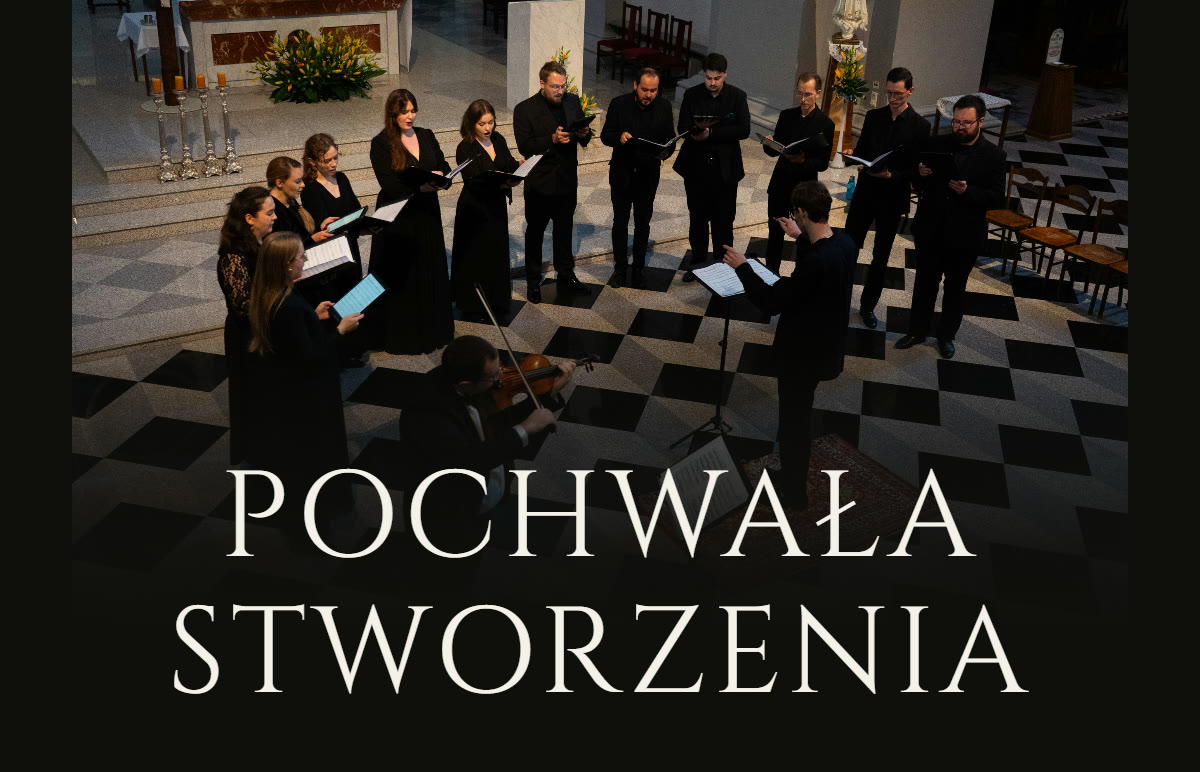
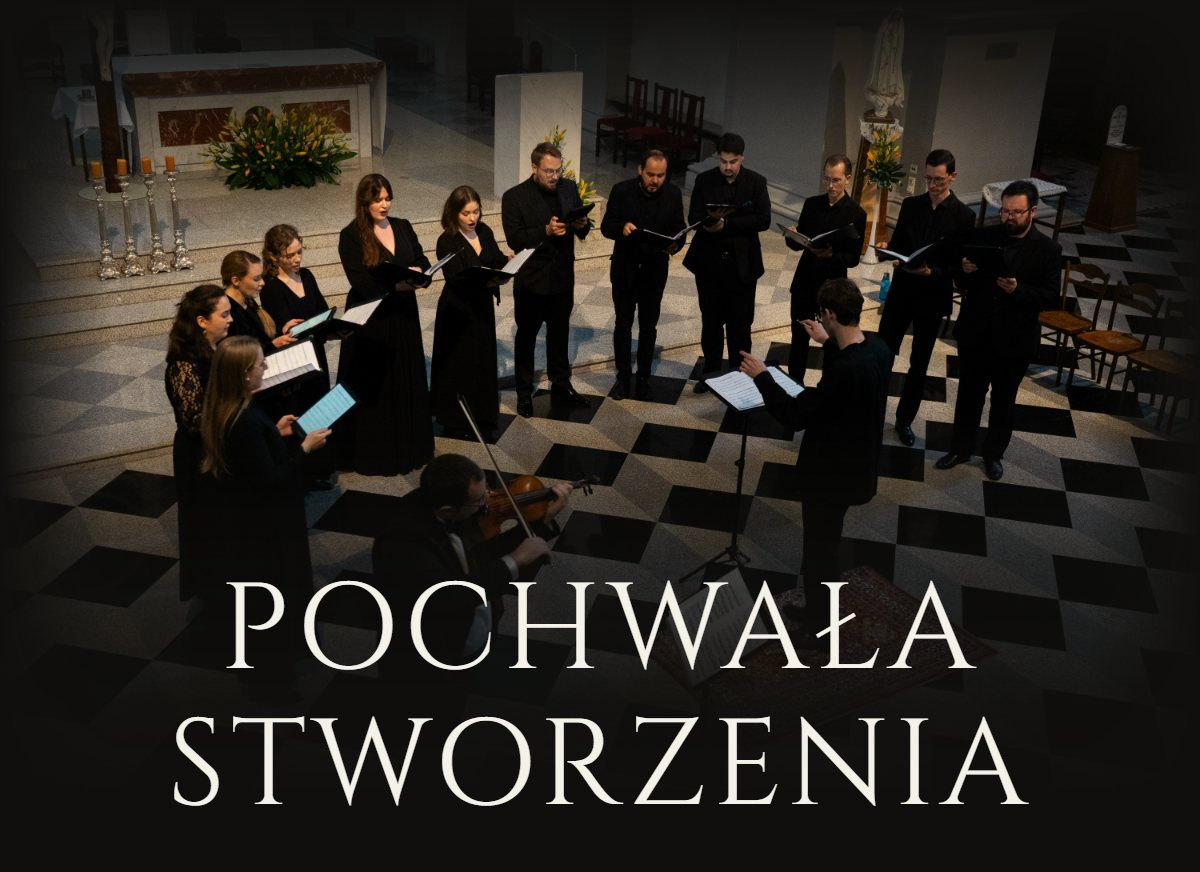
feat(outreach): the Pochwała Stworzenia letter opens on the photographs
The letter starts from what the singers saw in the photographs, thanks the
reader only if they came, and is signed by the singers with a closing line
above the signature. The inscription moves under the title, the dated facts
line goes, and the link carries a ref source instead of UTM parameters.

diff --git a/backend/templates/emails/letter_pochwala_stworzenia.html b/backend/templates/emails/letter_pochwala_stworzenia.html
@@ -4,11 +4,39 @@
 <meta charset="utf-8">
 <meta name="viewport" content="width=device-width, initial-scale=1">
 <meta name="x-apple-disable-message-reformatting">
-{# The letter is dark by design, so it declares itself dark: Apple Mail then leaves it as drawn instead of inverting it. #}
 <meta name="color-scheme" content="dark">
 <meta name="supported-color-schemes" content="dark">
 <title>{{ copy.subject }}</title>
-{# The site's own faces, from the site's own domain. Apple Mail renders them; Gmail and Outlook fall back to Georgia, which the sizes below are chosen to survive. A block of its own, because a client that rejects @font-face may drop the whole <style> it sits in. #}
+<!--{% comment %}
+  How this file is kept:
+  - Every note lives in this one block. A Django tag left as bare text between table rows shows
+    up above the table in a raw preview and fails HTML validation, so the only tags in the body
+    are the loop's, wrapped in HTML comments. Django leaves an empty comment behind each.
+  - Dark by design, and declared dark, so Apple Mail leaves it as drawn instead of inverting it.
+  - The site's own faces come from the site's own domain, in a style block of their own: a
+    client that rejects @font-face may drop the whole block it sits in. Only Apple Mail renders
+    them. Gmail and the Polish webmails go down each stack, so the stack is the typography most
+    readers get: Palatino (Windows, macOS, iOS) before Georgia, because it is Cormorant's kin and
+    its figures are lining, where Georgia's are old-style whatever font-variant-numeric asks.
+    Android has neither and takes its own serif.
+  - One gold, the sun's: #d4a35c for the rubric, the rules, the motto and the button's frame,
+    #f3d08f where gold must read as light. Three steps of type: reading 19/30, small italic
+    15/22, small capitals 11. Spacing from 8 / 16 / 24 / 40 / 64.
+  - The sun stands on its own horizon. Its rays keep one shape in every frame and only their
+    light moves, so it glints instead of crawling; a client that does not animate shows the
+    first frame, which is whole. It is decoration, so it carries no link and no alt.
+  - The evening's photograph rises out of the dark on every edge, with the title cut into it.
+    Under it the concert's inscription stands as the title's motto, the Canticle's first line in
+    Umbrian and in the reader's language. On a phone it breaks at the comma: the second half is
+    bound with no-break spaces, as each gloss in letters.py is.
+  - The two named musicians are a diptych of square frames printed in the letter's own ink, a
+    duotone from the page's ground to its reading colour, so two exposures share one key. Names
+    and roles are rows of their own, so a name that wraps on a phone still leaves both roles on
+    one line.
+  - The button is framed rather than filled; the table is what Outlook draws the border on.
+  - The images carry ?v=2 so an image proxy that fetched an earlier drawing for a test letter
+    serves this one.
+{% endcomment %}-->
 <style>
 @font-face { font-family: "Cormorant Garamond"; font-style: normal; font-weight: 300 700; src: url("{{ site_url }}/fonts/CormorantGaramond-Variable.latin.woff2") format("woff2"); unicode-range: U+0000-00FF, U+2018-201E, U+2026; }
 @font-face { font-family: "Cormorant Garamond"; font-style: normal; font-weight: 300 700; src: url("{{ site_url }}/fonts/CormorantGaramond-Variable.latin-ext.woff2") format("woff2"); unicode-range: U+0100-024F; }
@@ -18,13 +46,12 @@
 @font-face { font-family: "Cinzel"; font-style: normal; font-weight: 400 900; src: url("{{ site_url }}/fonts/Cinzel-Variable.latin-ext.woff2") format("woff2"); unicode-range: U+0100-024F; }
 </style>
 <style>
-:root { color-scheme: dark; supported-color-schemes: dark; }
+:root { color-scheme: dark; }
 body { margin: 0; padding: 0; background: #100f0d; }
-a { color: #c9873f; }
+a { color: #d4a35c; }
 @media (max-width: 620px) {
   .measure { padding-left: 26px !important; padding-right: 26px !important; }
   .inset { padding-left: 18px !important; padding-right: 18px !important; }
-  .lede { font-size: 19px !important; line-height: 29px !important; }
 }
 </style>
 </head>
@@ -36,69 +63,61 @@ a { color: #c9873f; }
 <!--[if mso]><table role="presentation" width="600" cellpadding="0" cellspacing="0" border="0"><tr><td><![endif]-->
 <table role="presentation" width="600" cellpadding="0" cellspacing="0" border="0" bgcolor="#100f0d" style="width:100%; max-width:600px; background:#100f0d;">
 
-  {# ── The rubric, then the sun of the Canticle rising behind the photograph ── #}
-  <tr><td align="center" style="padding:34px 24px 2px; font-family:'Cinzel', Georgia, serif; font-size:11px; line-height:16px; letter-spacing:4px; text-transform:uppercase; color:#c9873f;">{{ copy.eyebrow }}</td></tr>
-  <tr><td style="font-size:0; line-height:0;"><a href="{{ page_url }}" style="text-decoration:none;"><img src="{{ asset_url }}/sun.gif" width="600" height="200" alt="" style="display:block; width:100%; max-width:600px; height:auto; border:0;"></a></td></tr>
-  <tr><td style="font-size:0; line-height:0;"><a href="{{ page_url }}" style="text-decoration:none;"><img src="{{ asset_url }}/hero.jpg" width="600" height="386" alt="{{ copy.hero_alt }}" style="display:block; width:100%; max-width:600px; height:auto; border:0; color:#f4f1e9; font-family:Georgia, serif; font-size:18px;"></a></td></tr>
+  <tr><td align="center" style="padding:40px 24px 16px; font-family:'Cinzel', 'Palatino Linotype', Palatino, 'Book Antiqua', Georgia, serif; font-size:11px; line-height:16px; letter-spacing:3px; text-transform:uppercase; color:#d4a35c;">{{ copy.eyebrow }}</td></tr>
+  <tr><td style="font-size:0; line-height:0;"><img src="{{ asset_url }}/sun.gif?v=2" width="600" height="200" alt="" style="display:block; width:100%; max-width:600px; height:auto; border:0;"></td></tr>
+  <tr><td style="font-size:0; line-height:0;"><a href="{{ page_url }}" style="text-decoration:none;"><img src="{{ asset_url }}/hero.jpg?v=2" width="600" height="436" alt="{{ copy.hero_alt }}" style="display:block; width:100%; max-width:600px; height:auto; border:0; color:#f1ebdf; font-family:'Palatino Linotype', Palatino, Georgia, serif; font-size:19px;"></a></td></tr>
 
-  {# ── Byline and facts, the poster's own order ── #}
-  <tr><td align="center" style="padding:10px 24px 0; font-family:'Cormorant Garamond', Georgia, serif; font-variant-numeric:lining-nums; font-style:italic; font-size:22px; line-height:28px; color:#ddd6c8;">VoctEnsemble &amp; Radu Ropotan</td></tr>
-  <tr><td align="center" style="padding:12px 24px 0; font-family:'Cinzel', Georgia, serif; font-size:10.5px; line-height:18px; letter-spacing:2.5px; text-transform:uppercase; color:#8f887c;">{{ copy.facts }}</td></tr>
-  <tr><td align="center" style="padding:40px 0 38px;"><table role="presentation" cellpadding="0" cellspacing="0" border="0"><tr><td width="40" height="1" bgcolor="#c9873f" style="width:40px; height:1px; font-size:0; line-height:0; background:#c9873f;">&nbsp;</td></tr></table></td></tr>
+  <tr><td align="center" class="measure" style="padding:16px 56px 0; font-family:'Cormorant Garamond', 'Palatino Linotype', Palatino, 'Book Antiqua', Georgia, serif; font-variant-numeric:lining-nums; font-style:italic; font-size:19px; line-height:28px; color:#d4a35c;">Laudato si’, mi’ Signore, cum&nbsp;tucte&nbsp;le&nbsp;Tue&nbsp;creature</td></tr>
+  <tr><td align="center" class="measure" style="padding:8px 56px 0; font-family:'Cormorant Garamond', 'Palatino Linotype', Palatino, 'Book Antiqua', Georgia, serif; font-variant-numeric:lining-nums; font-size:15px; line-height:22px; color:#8f887c;">{{ copy.inscription_gloss }}</td></tr>
+  <tr><td align="center" style="padding:40px 0;"><table role="presentation" cellpadding="0" cellspacing="0" border="0"><tr><td width="40" height="1" bgcolor="#d4a35c" style="width:40px; height:1px; font-size:0; line-height:0; background:#d4a35c;">&nbsp;</td></tr></table></td></tr>
 
-  {# ── The letter ── #}
-  <tr><td class="measure" style="padding:0 56px; font-family:'Cormorant Garamond', Georgia, serif; font-variant-numeric:lining-nums; font-size:22px; line-height:30px; color:#f1ebdf;">{{ greeting }}</td></tr>
-  {% for paragraph in copy.body %}
-  <tr><td class="measure lede" style="padding:10px 56px 0; font-family:'Cormorant Garamond', Georgia, serif; font-variant-numeric:lining-nums; font-size:20px; line-height:31px; color:#d9d2c5;">{{ paragraph }}</td></tr>
-  {% endfor %}
+  <tr><td class="measure" style="padding:0 56px; font-family:'Cormorant Garamond', 'Palatino Linotype', Palatino, 'Book Antiqua', Georgia, serif; font-variant-numeric:lining-nums; font-size:19px; line-height:30px; color:#d9d2c5;">
+    <div style="color:#f1ebdf;">{{ greeting }}</div>
+    <!--{% for paragraph in copy.body %}--><div style="padding-top:16px;">{{ paragraph }}</div><!--{% endfor %}-->
+  </td></tr>
 
-  {# ── Two portraits, the reel's product pair turned into the evening's two named musicians ── #}
   <tr><td class="inset" style="padding:40px 36px 0;">
     <table role="presentation" width="100%" cellpadding="0" cellspacing="0" border="0">
       <tr>
-        <td width="49%" valign="top" style="width:49%;">
-          <a href="{{ page_url }}" style="text-decoration:none;"><img src="{{ asset_url }}/florent.jpg" width="258" height="322" alt="{{ copy.portrait_alts.0 }}" style="display:block; width:100%; max-width:258px; height:auto; border:0; color:#8f887c; font-family:Georgia, serif; font-size:13px;"></a>
-          <div style="padding-top:12px; font-family:'Cinzel', Georgia, serif; font-size:10px; line-height:15px; letter-spacing:2px; text-transform:uppercase; color:#b8b0a2;">Florent de Bazelaire</div>
-          <div style="padding-top:2px; font-family:'Cormorant Garamond', Georgia, serif; font-style:italic; font-size:15px; line-height:20px; color:#8f887c;">{{ copy.roles.0 }}</div>
-        </td>
+        <td width="49%" valign="top" style="width:49%;"><a href="{{ page_url }}" style="text-decoration:none;"><img src="{{ asset_url }}/florent.jpg?v=2" width="258" height="258" alt="{{ copy.portrait_alts.0 }}" style="display:block; width:100%; max-width:258px; height:auto; border:0; color:#8f887c; font-family:'Palatino Linotype', Palatino, Georgia, serif; font-size:15px;"></a></td>
         <td width="2%" style="width:2%; font-size:0; line-height:0;">&nbsp;</td>
-        <td width="49%" valign="top" style="width:49%;">
-          <a href="{{ page_url }}" style="text-decoration:none;"><img src="{{ asset_url }}/radu.jpg" width="258" height="322" alt="{{ copy.portrait_alts.1 }}" style="display:block; width:100%; max-width:258px; height:auto; border:0; color:#8f887c; font-family:Georgia, serif; font-size:13px;"></a>
-          <div style="padding-top:12px; font-family:'Cinzel', Georgia, serif; font-size:10px; line-height:15px; letter-spacing:2px; text-transform:uppercase; color:#b8b0a2;">Radu Ropotan</div>
-          <div style="padding-top:2px; font-family:'Cormorant Garamond', Georgia, serif; font-style:italic; font-size:15px; line-height:20px; color:#8f887c;">{{ copy.roles.1 }}</div>
-        </td>
+        <td width="49%" valign="top" style="width:49%;"><a href="{{ page_url }}" style="text-decoration:none;"><img src="{{ asset_url }}/radu.jpg?v=2" width="258" height="258" alt="{{ copy.portrait_alts.1 }}" style="display:block; width:100%; max-width:258px; height:auto; border:0; color:#8f887c; font-family:'Palatino Linotype', Palatino, Georgia, serif; font-size:15px;"></a></td>
+      </tr>
+      <tr>
+        <td valign="bottom" style="padding-top:16px; font-family:'Cinzel', 'Palatino Linotype', Palatino, 'Book Antiqua', Georgia, serif; font-size:11px; line-height:16px; letter-spacing:2px; text-transform:uppercase; color:#b8b0a2;">Florent de Bazelaire</td>
+        <td style="font-size:0; line-height:0;">&nbsp;</td>
+        <td valign="bottom" style="padding-top:16px; font-family:'Cinzel', 'Palatino Linotype', Palatino, 'Book Antiqua', Georgia, serif; font-size:11px; line-height:16px; letter-spacing:2px; text-transform:uppercase; color:#b8b0a2;">Radu Ropotan</td>
+      </tr>
+      <tr>
+        <td valign="top" style="font-family:'Cormorant Garamond', 'Palatino Linotype', Palatino, 'Book Antiqua', Georgia, serif; font-style:italic; font-size:15px; line-height:22px; color:#8f887c;">{{ copy.roles.0 }}</td>
+        <td style="font-size:0; line-height:0;">&nbsp;</td>
+        <td valign="top" style="font-family:'Cormorant Garamond', 'Palatino Linotype', Palatino, 'Book Antiqua', Georgia, serif; font-style:italic; font-size:15px; line-height:22px; color:#8f887c;">{{ copy.roles.1 }}</td>
       </tr>
     </table>
   </td></tr>
 
-  {# ── The one door. Bordered rather than filled, as in the reel; the table is what Outlook draws the border on. ── #}
-  <tr><td align="center" style="padding:44px 24px 0;">
+  <tr><td align="center" style="padding:40px 24px 0;">
     <table role="presentation" cellpadding="0" cellspacing="0" border="0"><tr>
-      <td style="border:1px solid #c9873f;">
-        <a href="{{ page_url }}" style="display:inline-block; padding:16px 36px; font-family:'Cinzel', Georgia, serif; font-size:12px; line-height:14px; letter-spacing:3.5px; text-transform:uppercase; color:#e9c48a; text-decoration:none;">{{ copy.button }}</a>
+      <td style="border:1px solid #d4a35c;">
+        <a href="{{ page_url }}" style="display:inline-block; padding:16px 40px; font-family:'Cinzel', 'Palatino Linotype', Palatino, 'Book Antiqua', Georgia, serif; font-size:11px; line-height:16px; letter-spacing:3px; text-transform:uppercase; color:#f3d08f; text-decoration:none;">{{ copy.button }}</a>
       </td>
     </tr></table>
   </td></tr>
 
-  {# ── The next concert, and who is writing ── #}
-  <tr><td class="measure" style="padding:44px 56px 0; font-family:'Cormorant Garamond', Georgia, serif; font-variant-numeric:lining-nums; font-size:19px; line-height:29px; color:#b8b0a2;">{{ copy.next }}</td></tr>
-  <tr><td class="measure" style="padding:22px 56px 0; font-family:'Cormorant Garamond', Georgia, serif; font-variant-numeric:lining-nums; font-style:italic; font-size:22px; line-height:30px; color:#f1ebdf;">{{ copy.signature }}</td></tr>
+  <tr><td class="measure" style="padding:40px 56px 0; font-family:'Cormorant Garamond', 'Palatino Linotype', Palatino, 'Book Antiqua', Georgia, serif; font-variant-numeric:lining-nums; font-size:19px; line-height:30px; color:#b8b0a2;">{{ copy.next }}</td></tr>
+  <tr><td class="measure" style="padding:24px 56px 0; font-family:'Cormorant Garamond', 'Palatino Linotype', Palatino, 'Book Antiqua', Georgia, serif; font-variant-numeric:lining-nums; font-size:19px; line-height:30px; color:#d9d2c5;">{{ copy.closing }}</td></tr>
+  <tr><td class="measure" style="padding:0 56px; font-family:'Cormorant Garamond', 'Palatino Linotype', Palatino, 'Book Antiqua', Georgia, serif; font-variant-numeric:lining-nums; font-style:italic; font-size:19px; line-height:30px; color:#f1ebdf;">{{ copy.signature }}</td></tr>
 
-  {# ── The concert's inscription, the first line of the Canticle — the sun it names is the one at the top ── #}
-  <tr><td align="center" style="padding:56px 0 0;"><table role="presentation" cellpadding="0" cellspacing="0" border="0"><tr><td width="40" height="1" bgcolor="#3a352e" style="width:40px; height:1px; font-size:0; line-height:0; background:#3a352e;">&nbsp;</td></tr></table></td></tr>
-  <tr><td align="center" class="measure" style="padding:30px 56px 0; font-family:'Cormorant Garamond', Georgia, serif; font-variant-numeric:lining-nums; font-style:italic; font-size:19px; line-height:27px; color:#c9873f;">Laudato si’, mi’ Signore, cum tucte le Tue creature</td></tr>
-  <tr><td align="center" class="measure" style="padding:8px 56px 0; font-family:'Cormorant Garamond', Georgia, serif; font-variant-numeric:lining-nums; font-size:15px; line-height:22px; color:#8f887c;">{{ copy.inscription_gloss }}</td></tr>
-
-  {# ── Why this arrived, and the way out ── #}
-  <tr><td align="center" class="measure" style="padding:60px 56px 0; font-family:Arial, Helvetica, sans-serif; font-size:11.5px; line-height:18px; color:#7d766c;">{{ copy.why }} {{ copy.reply }}</td></tr>
-  <tr><td align="center" class="measure" style="padding:12px 56px 0; font-family:Arial, Helvetica, sans-serif; font-size:11.5px; line-height:18px; color:#7d766c;">
+  <tr><td align="center" style="padding:64px 0 0;"><table role="presentation" cellpadding="0" cellspacing="0" border="0"><tr><td width="40" height="1" bgcolor="#3a352e" style="width:40px; height:1px; font-size:0; line-height:0; background:#3a352e;">&nbsp;</td></tr></table></td></tr>
+  <tr><td align="center" class="measure" style="padding:40px 56px 0; font-family:Arial, Helvetica, sans-serif; font-size:11.5px; line-height:18px; color:#7d766c;">{{ copy.why }} {{ copy.reply }}</td></tr>
+  <tr><td align="center" class="measure" style="padding:16px 56px 0; font-family:Arial, Helvetica, sans-serif; font-size:11.5px; line-height:18px; color:#7d766c;">
     <a href="{{ unsubscribe_url }}" style="color:#a39b8e; text-decoration:underline;">{{ copy.unsubscribe }}</a>
     &nbsp;·&nbsp;
     <a href="{{ preferences_url }}" style="color:#a39b8e; text-decoration:underline;">{{ copy.preferences }}</a>
     &nbsp;·&nbsp;
     <a href="{{ policy_url }}" style="color:#a39b8e; text-decoration:underline;">{{ copy.policy }}</a>
   </td></tr>
-  <tr><td align="center" class="measure" style="padding:12px 56px 48px; font-family:Arial, Helvetica, sans-serif; font-size:11.5px; line-height:18px; color:#5f594f;">{{ copy.controller }}</td></tr>
+  <tr><td align="center" class="measure" style="padding:16px 56px 40px; font-family:Arial, Helvetica, sans-serif; font-size:11.5px; line-height:18px; color:#5f594f;">{{ copy.controller }}</td></tr>
 
 </table>
 <!--[if mso]></td></tr></table><![endif]-->

diff --git a/backend/outreach/letters.py b/backend/outreach/letters.py
@@ -53,8 +53,6 @@ class LetterCopy:
     preheader: str
     #: The rubric over the image.
     eyebrow: str
-    #: The day and the place, under the title.
-    facts: str
     #: The salutation for a subscriber who gave a first name. `{name}` is filled here and the
     #: result escaped by the template like any other value — the name is the reader's input.
     greeting: str
@@ -71,6 +69,10 @@ class LetterCopy:
     #: Where things stand on the next concert. The list was promised its date; until there is
     #: one, the letter says so rather than staying silent about it.
     next: str
+    #: The leave-taking line above the signature.
+    closing: str
+    #: Who writes. The ensemble, unless a person wrote the letter themselves: a name under
+    #: words its owner did not write is not a signature.
     signature: str
     #: The concert's inscription in this language — the site's own gloss, not a new one.
     inscription_gloss: str
@@ -110,15 +112,29 @@ POCHWALA_STWORZENIA = Letter(
     copy={
         NoticeLocale.PL: LetterCopy(
             subject="Zdjęcia z Pochwały Stworzenia",
-            preheader="Niedziela 11 października, kościół Wszystkich Świętych w Warszawie.",
+            preheader="Zdjęcia, na których po raz pierwszy zobaczyliśmy własny koncert.",
             eyebrow="Koncert Duchowy",
-            facts=f"11{NBSP}października{NBSP}2026 · Kościół{NBSP}Wszystkich{NBSP}Świętych · Warszawa",
             greeting="Dzień dobry, {name},",
             greeting_plain="Dzień dobry,",
+            # One reader, addressed as the list addresses its readers: "Ty", in forms that carry
+            # no grammatical gender ("udało Ci się przyjść"), since the list never asks for one.
+            # It thanks the reader only if they came, and gives the photographs to both cases.
+            # The letter leaves the programme to the concert page and starts from the photographs:
+            # a singer sees little of their own concert, so the pictures are as new to the
+            # ensemble as to the reader. The chessboard is the hero photograph read literally:
+            # the black and white floor, the half circle in black, the violinist in front.
             body=(
-                f"dziękujemy wszystkim, którzy byli z{NBSP}nami 11{NBSP}października "
-                f"w{NBSP}kościele Wszystkich Świętych. Zdjęcia z{NBSP}tamtego popołudnia są już "
-                "na stronie koncertu.",
+                f"kiedy się śpiewa, z{NBSP}koncertu widzi się niewiele: ręce Florenta, nuty "
+                f"i{NBSP}kawałek sklepienia. Zdjęcia z{NBSP}Pochwały Stworzenia oglądaliśmy więc "
+                "trochę tak, jakbyśmy sami siedzieli w ławce. Najdłużej patrzyliśmy na to "
+                f"zrobione z{NBSP}góry. Na czarno-białej posadzce kościoła Wszystkich Świętych "
+                f"stoimy w{NBSP}półkolu jak figury rozstawione na szachownicy, a{NBSP}Radu ze "
+                "skrzypcami na pierwszym planie wygląda, jakby to on miał teraz ruch.",
+                f"Jeśli udało Ci się wtedy przyjść, bardzo Ci dziękujemy. Śpiewa się zupełnie "
+                "inaczej, kiedy się wie, że ktoś przyszedł właśnie po tę muzykę. "
+                f"A{NBSP}jeśli tym razem się nie udało, może te zdjęcia pokażą Ci choć trochę, jak "
+                f"tam było. Są już na stronie koncertu, razem z{NBSP}programem i{NBSP}tekstami, "
+                "które śpiewaliśmy.",
             ),
             hero_alt=(
                 "Pochwała Stworzenia. VoctEnsemble w półkolu przed ołtarzem kościoła "
@@ -130,9 +146,10 @@ POCHWALA_STWORZENIA = Letter(
                 "Radu Ropotan gra na skrzypcach",
             ),
             button="Zobacz zdjęcia",
-            next=f"Następny koncert nie ma jeszcze daty. Napiszemy, kiedy ją{NBSP}ustalimy.",
-            signature="Florent i zespół VoctEnsemble",
-            inscription_gloss="Pochwalony bądź, Panie mój, ze wszystkimi Twoimi stworzeniami",
+            next=f"Daty następnego koncertu jeszcze nie znamy. Kiedy tylko ją ustalimy, napiszemy do{NBSP}Ciebie.",
+            closing="Serdecznie pozdrawiamy",
+            signature="Śpiewacy VoctEnsemble",
+            inscription_gloss=f"Pochwalony bądź, Panie mój, ze{NBSP}wszystkimi{NBSP}Twoimi{NBSP}stworzeniami",
             why=(
                 "Ten list przyszedł, bo ten adres jest na liście Zaproszeń VoctEnsemble. "
                 "Piszemy tylko o koncertach."
@@ -148,14 +165,21 @@ POCHWALA_STWORZENIA = Letter(
         ),
         NoticeLocale.EN: LetterCopy(
             subject="Photographs from Pochwała Stworzenia",
-            preheader="Sunday 11 October, All Saints’ Church in Warsaw.",
+            preheader="Photographs in which we saw our own concert for the first time.",
             eyebrow="Spiritual Concert",
-            facts=f"11{NBSP}October{NBSP}2026 · All{NBSP}Saints’{NBSP}Church · Warsaw",
             greeting="Dear {name},",
             greeting_plain="Hello,",
             body=(
-                f"Thank you to everyone who was with us on 11{NBSP}October at All Saints’ Church. "
-                "The photographs from that afternoon are now on the concert page.",
+                "When you are singing, you see very little of the concert: Florent’s hands, the "
+                "music and a piece of the vault. So we looked at the photographs from Pochwała "
+                "Stworzenia almost as if we had been sitting in the pews ourselves. The one we kept "
+                "coming back to was taken from above. On the black and white floor of All Saints’ "
+                "we stand in a half circle like pieces set out on a chessboard, and Radu with his "
+                "violin in front looks as if it is his move.",
+                "If you were able to come that afternoon, thank you so much. Singing feels quite "
+                "different when you know someone came for this very music. And if it didn’t work "
+                "out this time, perhaps the photographs will show you a little of what it was like. "
+                "They are now on the concert page, together with the programme and the texts we sang.",
             ),
             hero_alt=(
                 "Pochwała Stworzenia. VoctEnsemble in a half circle before the altar of "
@@ -167,9 +191,10 @@ POCHWALA_STWORZENIA = Letter(
                 "Radu Ropotan playing the violin",
             ),
             button="See the photographs",
-            next="The next concert has no date yet. We will write when it does.",
-            signature="Florent and VoctEnsemble",
-            inscription_gloss="Praised be You, my Lord, with all Your creatures",
+            next="We don’t know the date of the next concert yet. As soon as we do, we will write to you.",
+            closing="With warm wishes,",
+            signature="The singers of VoctEnsemble",
+            inscription_gloss=f"Praised be You, my Lord, with{NBSP}all{NBSP}Your{NBSP}creatures",
             why=(
                 "This letter came because this address is on VoctEnsemble’s Invitations "
                 "list. We write only about concerts."
@@ -185,15 +210,23 @@ POCHWALA_STWORZENIA = Letter(
         ),
         NoticeLocale.FR: LetterCopy(
             subject="Les photographies de Pochwała Stworzenia",
-            preheader="Dimanche 11 octobre, église de Tous-les-Saints à Varsovie.",
+            preheader="Des photographies où nous avons vu notre propre concert pour la première fois.",
             eyebrow="Concert Spirituel",
-            facts=f"11{NBSP}octobre{NBSP}2026 · Église{NBSP}de{NBSP}Tous-les-Saints · Varsovie",
             greeting="Bonjour {name},",
             greeting_plain="Bonjour,",
             body=(
-                f"Merci à tous ceux qui étaient avec nous le 11{NBSP}octobre en l’église de "
-                "Tous-les-Saints. Les photographies de cet après-midi sont maintenant sur la "
-                "page du concert.",
+                f"Quand on chante, on ne voit pas grand-chose du concert{NBSP}: les mains de Florent, "
+                "la partition et un morceau de voûte. Nous avons donc regardé les photographies de "
+                "Pochwała Stworzenia presque comme si nous avions été assis dans les bancs. Celle à "
+                "laquelle nous revenions sans cesse a été prise d’en haut. Sur le sol noir et blanc "
+                "de Tous-les-Saints, nous voilà rangés en demi-cercle comme des pièces sur un "
+                "échiquier, et devant nous Radu, avec son violon, a tout l’air d’être le prochain "
+                "à jouer.",
+                "Si vous avez pu venir cet après-midi-là, merci de tout cœur. On chante tout "
+                "autrement quand on sait que quelqu’un est venu pour cette musique. Et si cela n’a "
+                "pas été possible cette fois, ces photographies vous montreront peut-être un peu ce "
+                "que c’était. Elles sont maintenant sur la page du concert, avec le programme et les "
+                "textes que nous avons chantés.",
             ),
             hero_alt=(
                 "Pochwała Stworzenia. Le VoctEnsemble en demi-cercle devant l’autel de "
@@ -205,9 +238,13 @@ POCHWALA_STWORZENIA = Letter(
                 "Radu Ropotan joue du violon",
             ),
             button="Voir les photographies",
-            next="Le prochain concert n’a pas encore de date. Nous vous écrirons dès qu’il en aura une.",
-            signature="Florent et le VoctEnsemble",
-            inscription_gloss="Loué sois-Tu, mon Seigneur, avec toutes Tes créatures",
+            next=(
+                "Nous ne connaissons pas encore la date du prochain concert. Dès que nous la "
+                "connaîtrons, nous vous écrirons."
+            ),
+            closing="Bien chaleureusement,",
+            signature="Les chanteurs du VoctEnsemble",
+            inscription_gloss=f"Loué sois-Tu, mon Seigneur, avec{NBSP}toutes{NBSP}Tes{NBSP}créatures",
             why=(
                 "Cette lettre vous parvient parce que cette adresse figure sur la liste des "
                 "Invitations du VoctEnsemble. Nous n’écrivons que pour les concerts."
@@ -239,8 +276,9 @@ def letter_context(
     What a letter's templates read. Shared by the send and by `--preview`, so a previewed
     letter is the letter, not a mock-up of it.
 
-    The page link carries campaign parameters BEFORE the anchor — after it they would be
-    part of the fragment and never reach the analytics.
+    The page link names its source in `ref`, the parameter Plausible reads as a visit's
+    source, one value per letter so letters stay apart in the report. It sits BEFORE the
+    anchor: after it, it would be part of the fragment and never reach the analytics.
     """
     base = settings.PUBLIC_SITE_URL.rstrip('/')
     copy = letter.copy[locale]
@@ -251,8 +289,7 @@ def letter_context(
         'copy': copy,
         'greeting': copy.greeting.format(name=name) if name else copy.greeting_plain,
         'page_url': (
-            f"{base}{page}?utm_source=nuntius&utm_medium=email&utm_campaign={letter.slug}"
-            f"#{letter.anchor}"
+            f"{base}{page}?ref=nuntius-{letter.slug}#{letter.anchor}"
         ),
         'site_url': base,
         'asset_url': f"{base}/listy/{letter.slug}",

diff --git a/backend/outreach/tests.py b/backend/outreach/tests.py
@@ -982,10 +982,10 @@ class LetterTests(NoticeListTestCase):
         self.assertEqual(message.subject, self.letter.copy['en'].subject)
         # The text part is plain text: an apostrophe stays an apostrophe.
         self.assertIn("Dear O'Neil,", message.body)
-        # Campaign parameters before the anchor, or they never reach the analytics.
+        # The source before the anchor, or it never reaches the analytics.
         self.assertIn(
             'https://voctensemble.com/en/koncerty/pochwala-stworzenia'
-            '?utm_source=nuntius&utm_medium=email&utm_campaign=pochwala-stworzenia#obrazy',
+            '?ref=nuntius-pochwala-stworzenia#obrazy',
             message.body,
         )
 
